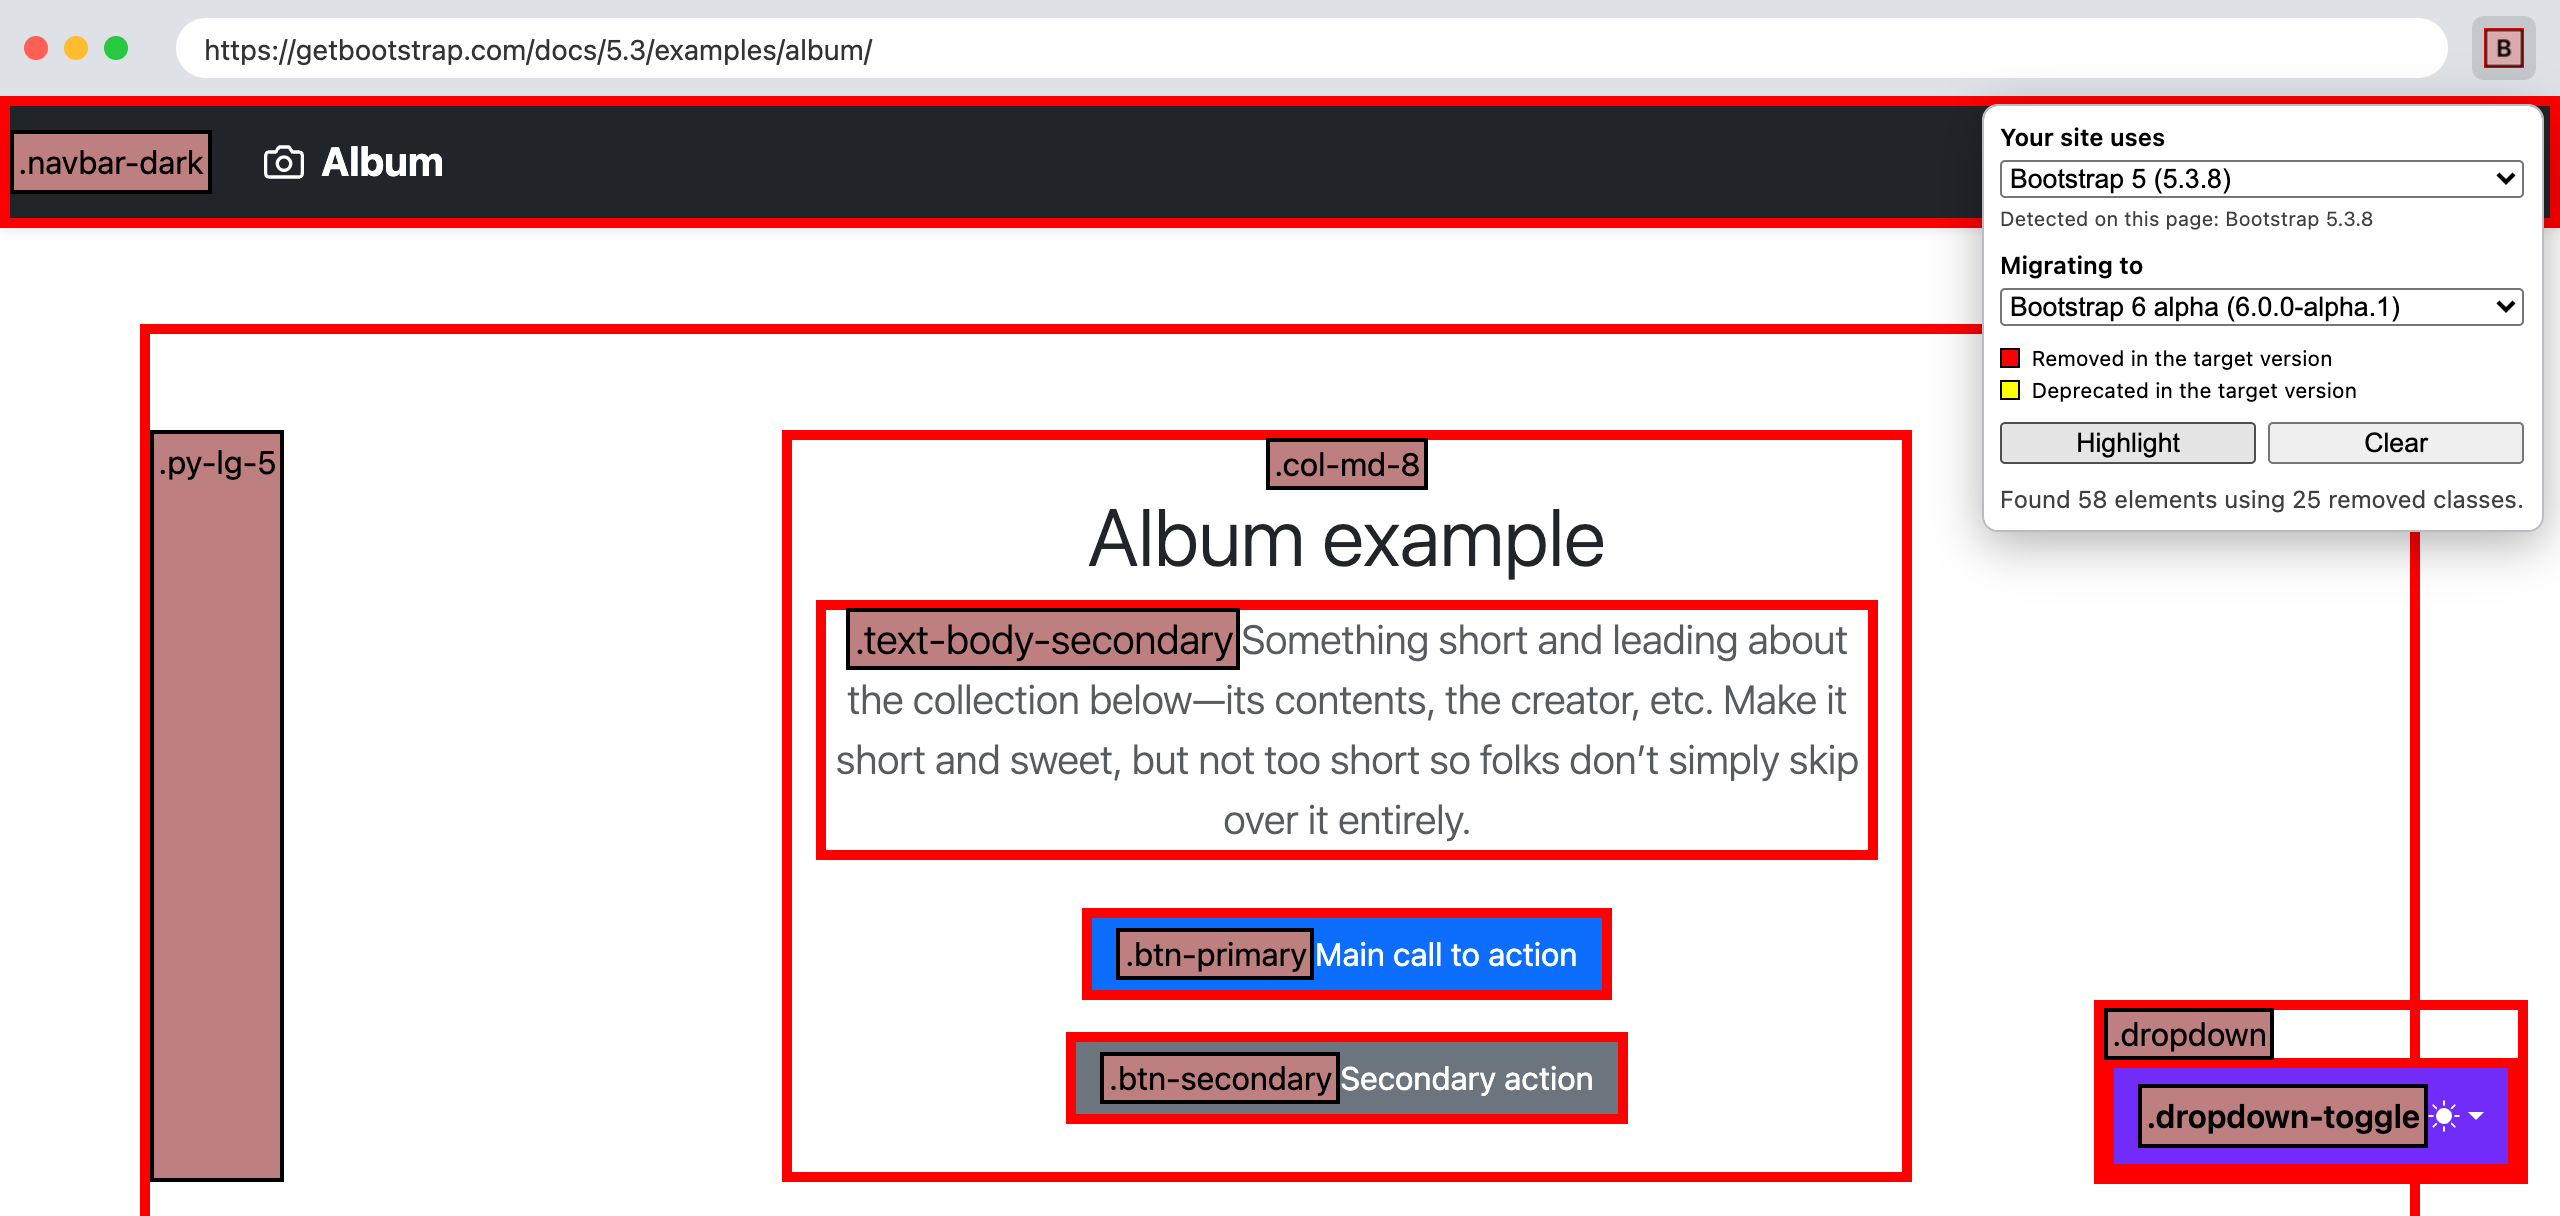
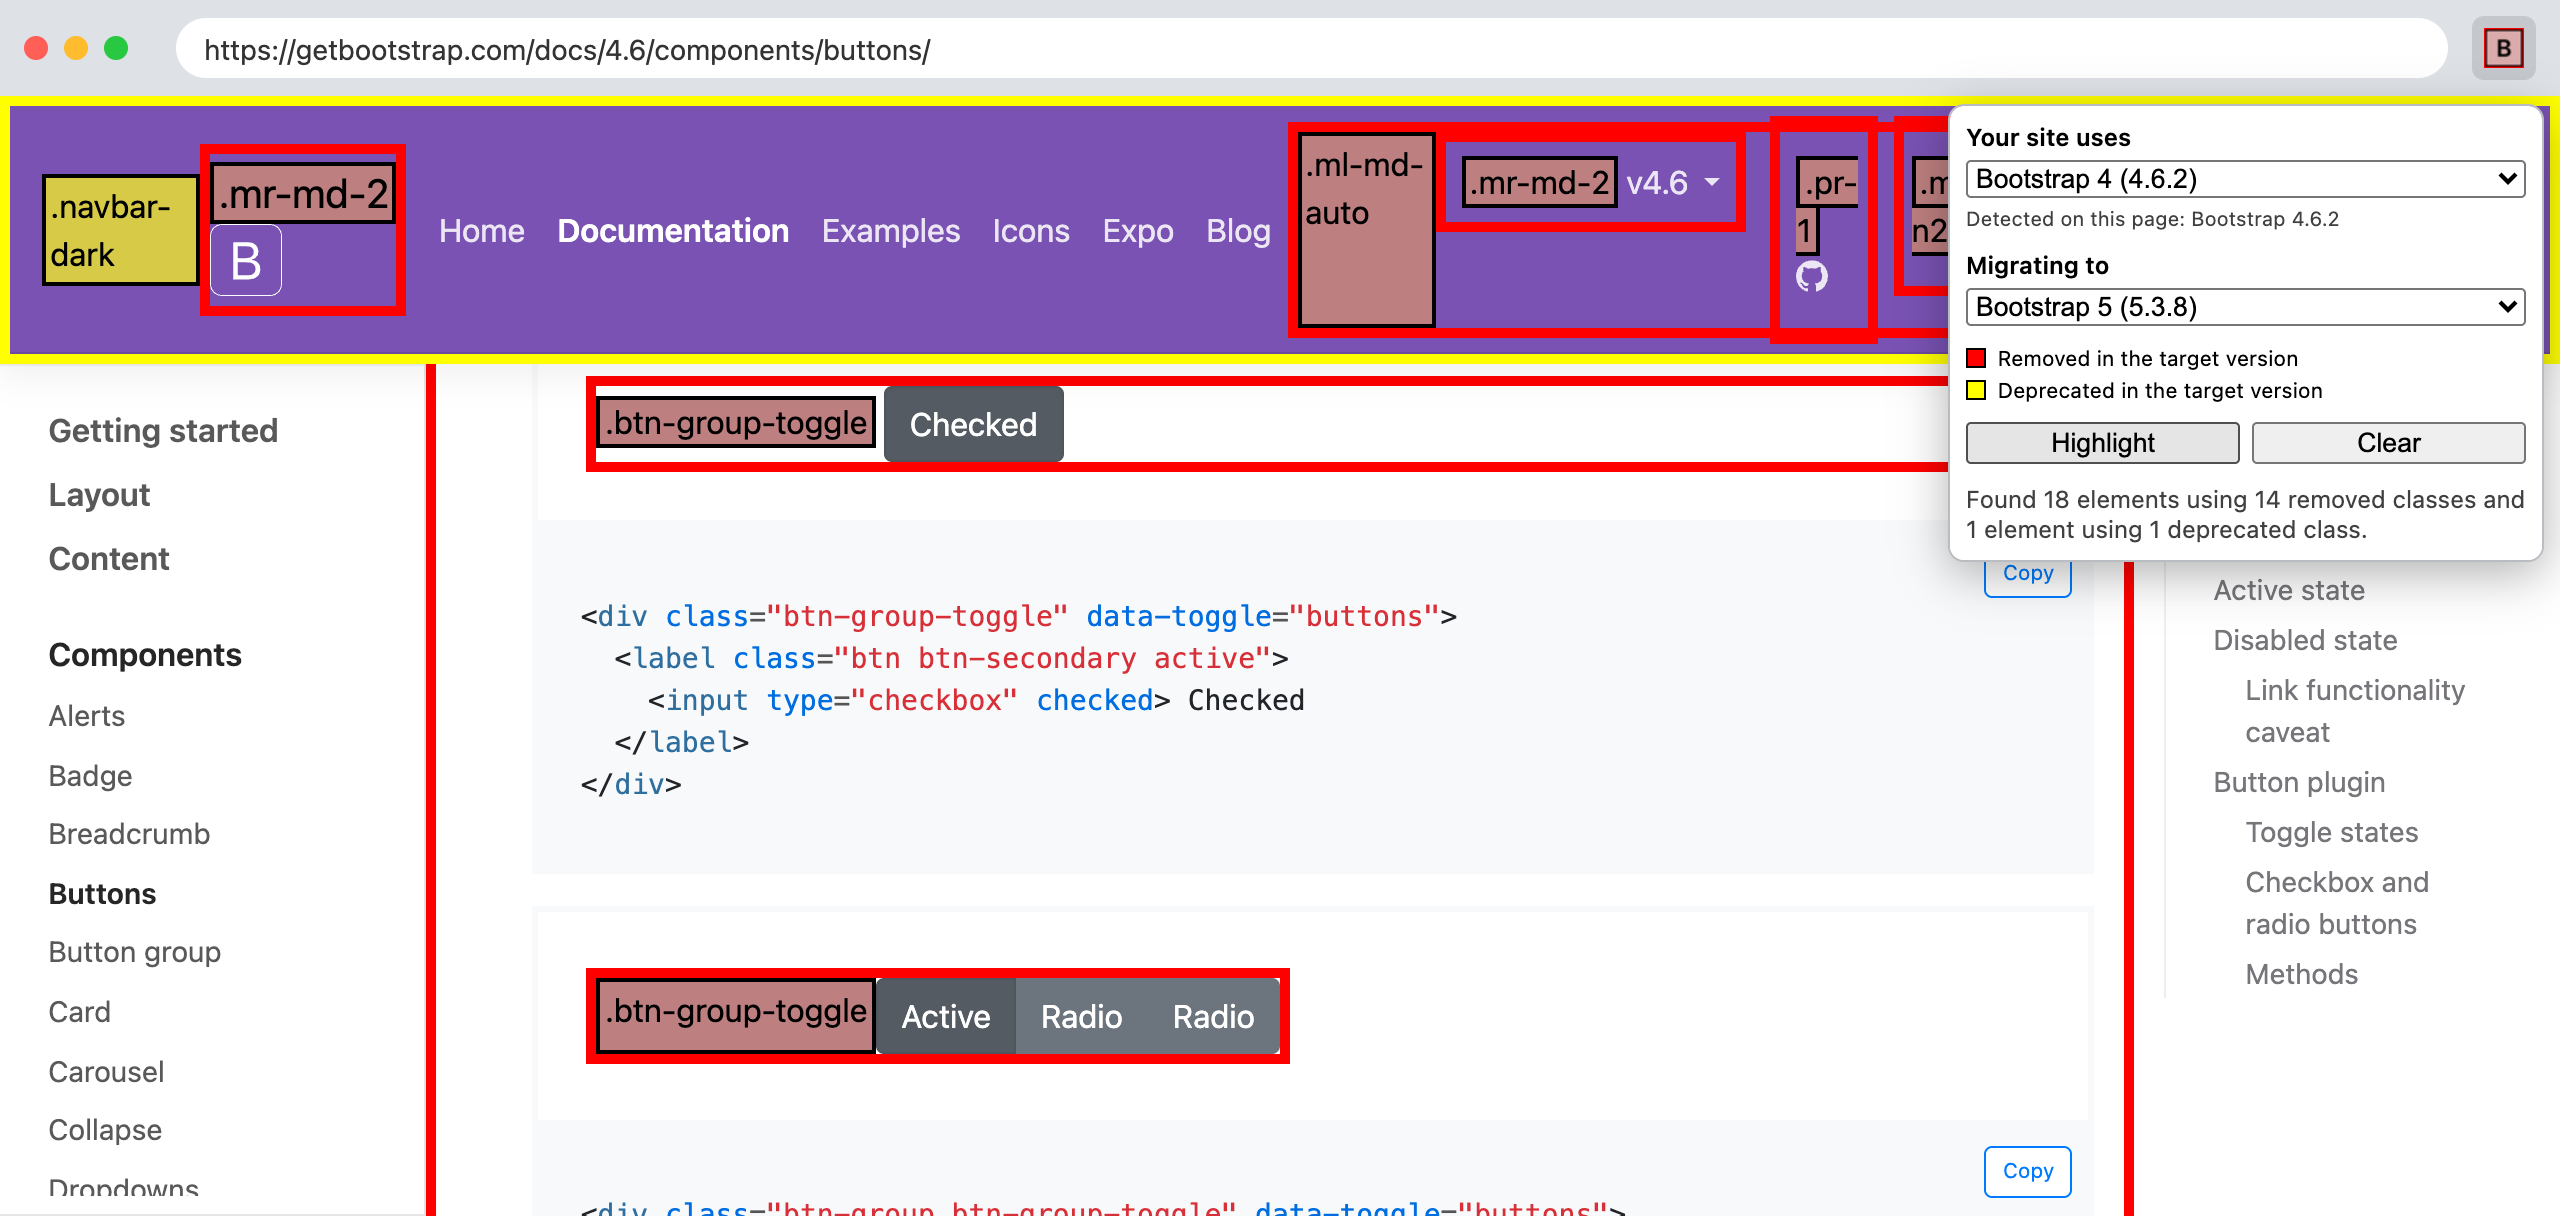
docs: keep the README screenshot name for the Bootstrap 4 to 5 image

diff --git a/README.md b/README.md
@@ -11,8 +11,8 @@
     <a href="https://github.com/julien-deramond/bootstrap-deprecated-classes-extension/issues/new">Report a bug</a>
   </p>
   <p>
-    <a href="images/bootstrap-4-to-5.png" title="Screenshot of the Bootstrap Deprecated Classes Extension">
-      <img alt="Screenshot of the Bootstrap Deprecated Classes Extension" src="images/bootstrap-4-to-5.png" width="800" />
+    <a href="images/bootstrap-deprecated-classes-extension.png" title="Screenshot of the Bootstrap Deprecated Classes Extension">
+      <img alt="Screenshot of the Bootstrap Deprecated Classes Extension" src="images/bootstrap-deprecated-classes-extension.png" width="800" />
     </a>
   </p>
 </div>
